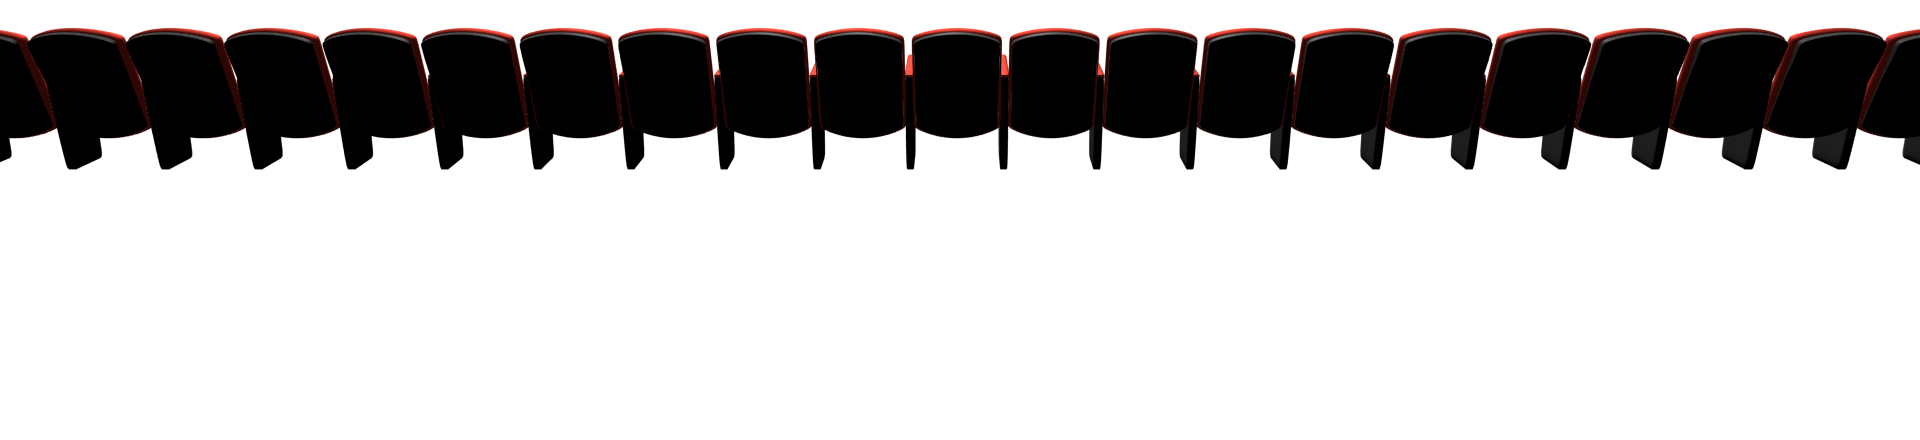
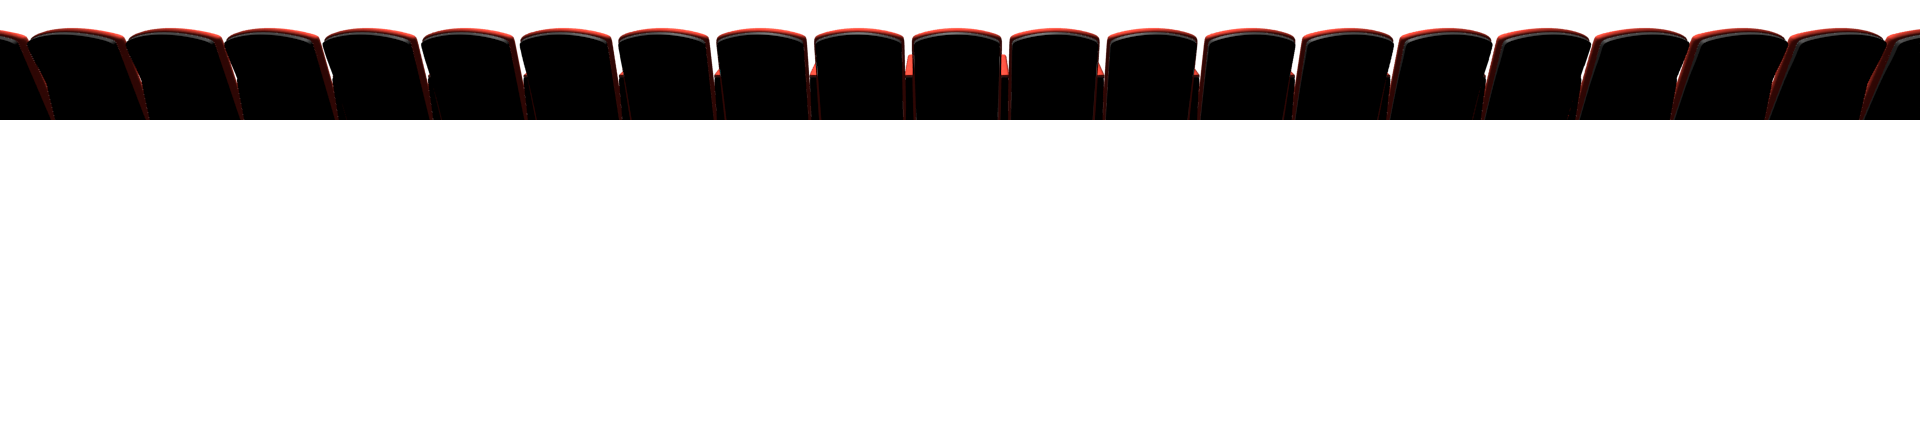
update from fork

Changed region(s): [[0.0, 0.2659, 1.0, 0.3841]]

diff --git a/src/components/Title.tsx b/src/components/Title.tsx
@@ -21,7 +21,7 @@ import seats8 from "../images/theatre-seats/008.png";
 const rawLogoDimendsions = {w: 635, h: 194};
 const curtainDimensions = {w: 1224, h: 857};
 
-const shadowSettings = '0 2px 10px #000000BB'
+const shadowSettings = '0 2px 15px #000000BB'
 
 const useStyles = makeStyles((theme) => ({
 	root: {
@@ -95,7 +95,7 @@ const Title = () => {
 			</Parallax>
 			{seats.map((row, i) => (
 				<div className={classes.seatsContainer} >
-					<Parallax y={[-10 + Math.pow(2, i), -1 * Math.pow(2, i)]} >
+					<Parallax y={[-5 + Math.pow(2, i), -5 + -Math.pow(2, i)]} >
 						<img className={classes.seats} src={row} />
 					</Parallax>
 				</div>

diff --git a/public/index.html b/public/index.html
@@ -24,7 +24,7 @@
       work correctly both with client-side routing and a non-root public URL.
       Learn how to configure a non-root public URL by running `npm run build`.
     -->
-    <title>React App</title>
+    <title>RAW Comedy Quest 2021</title>
   </head>
   <body>
     <noscript>You need to enable JavaScript to run this app.</noscript>
